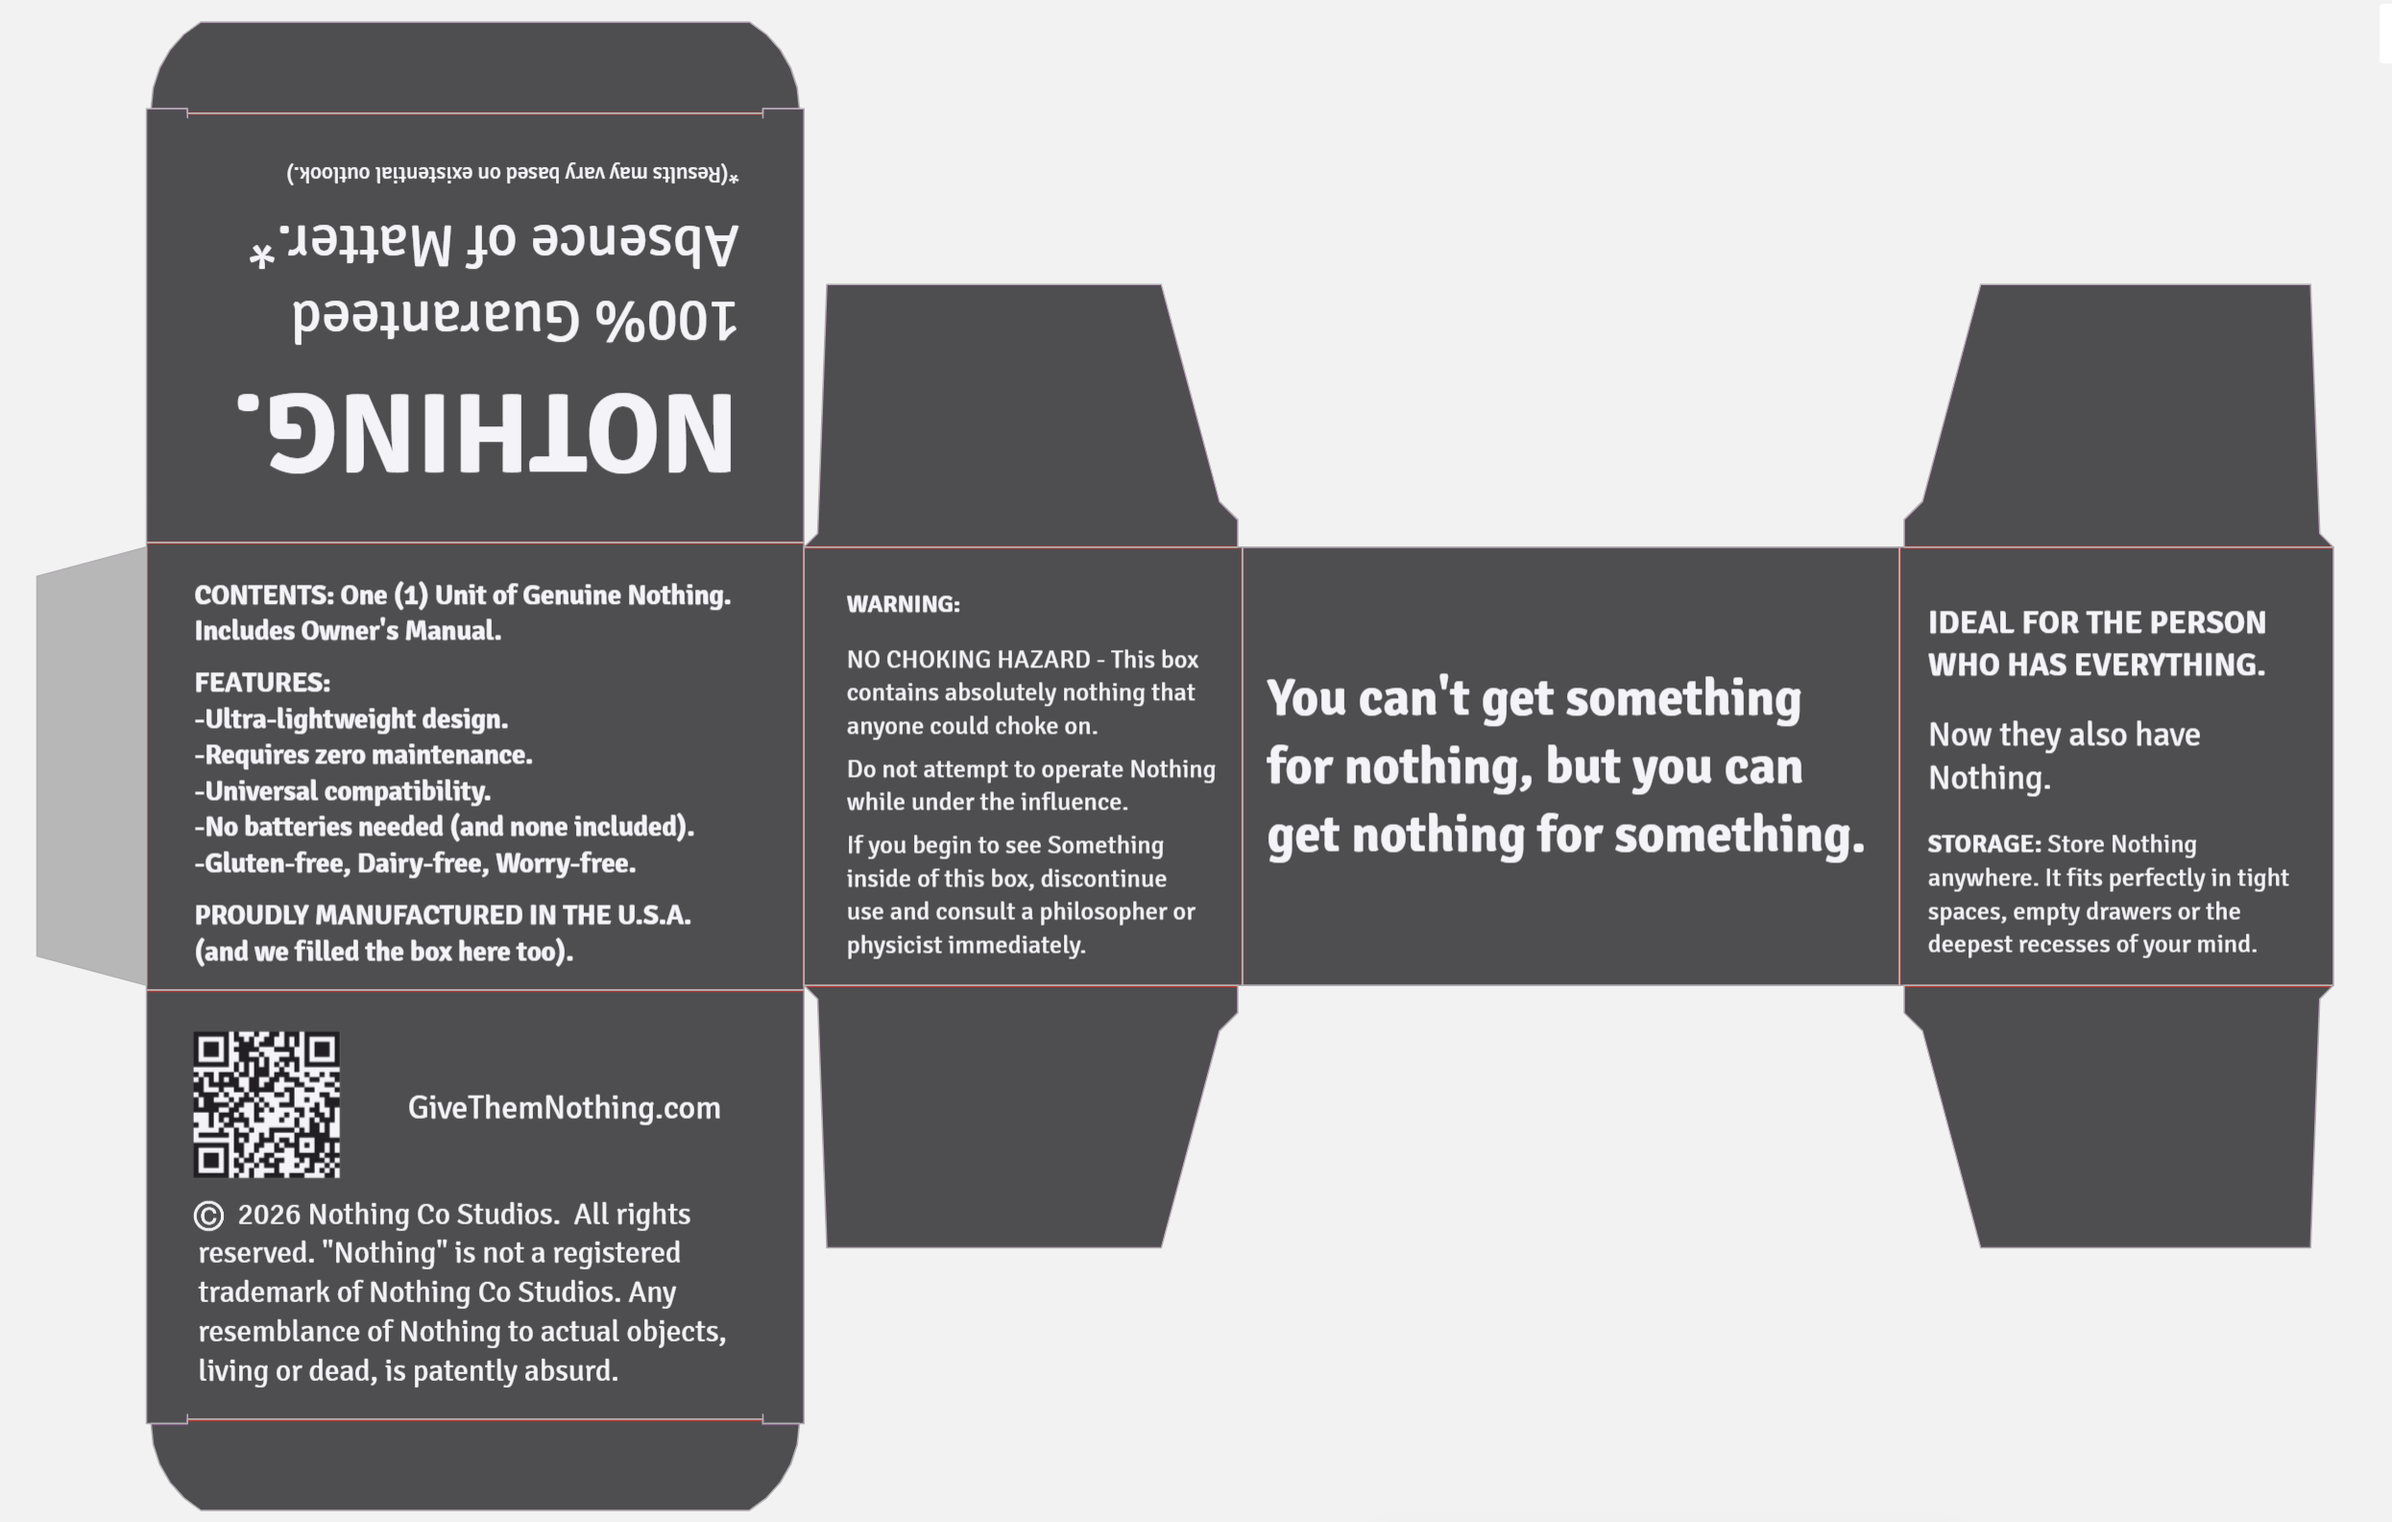
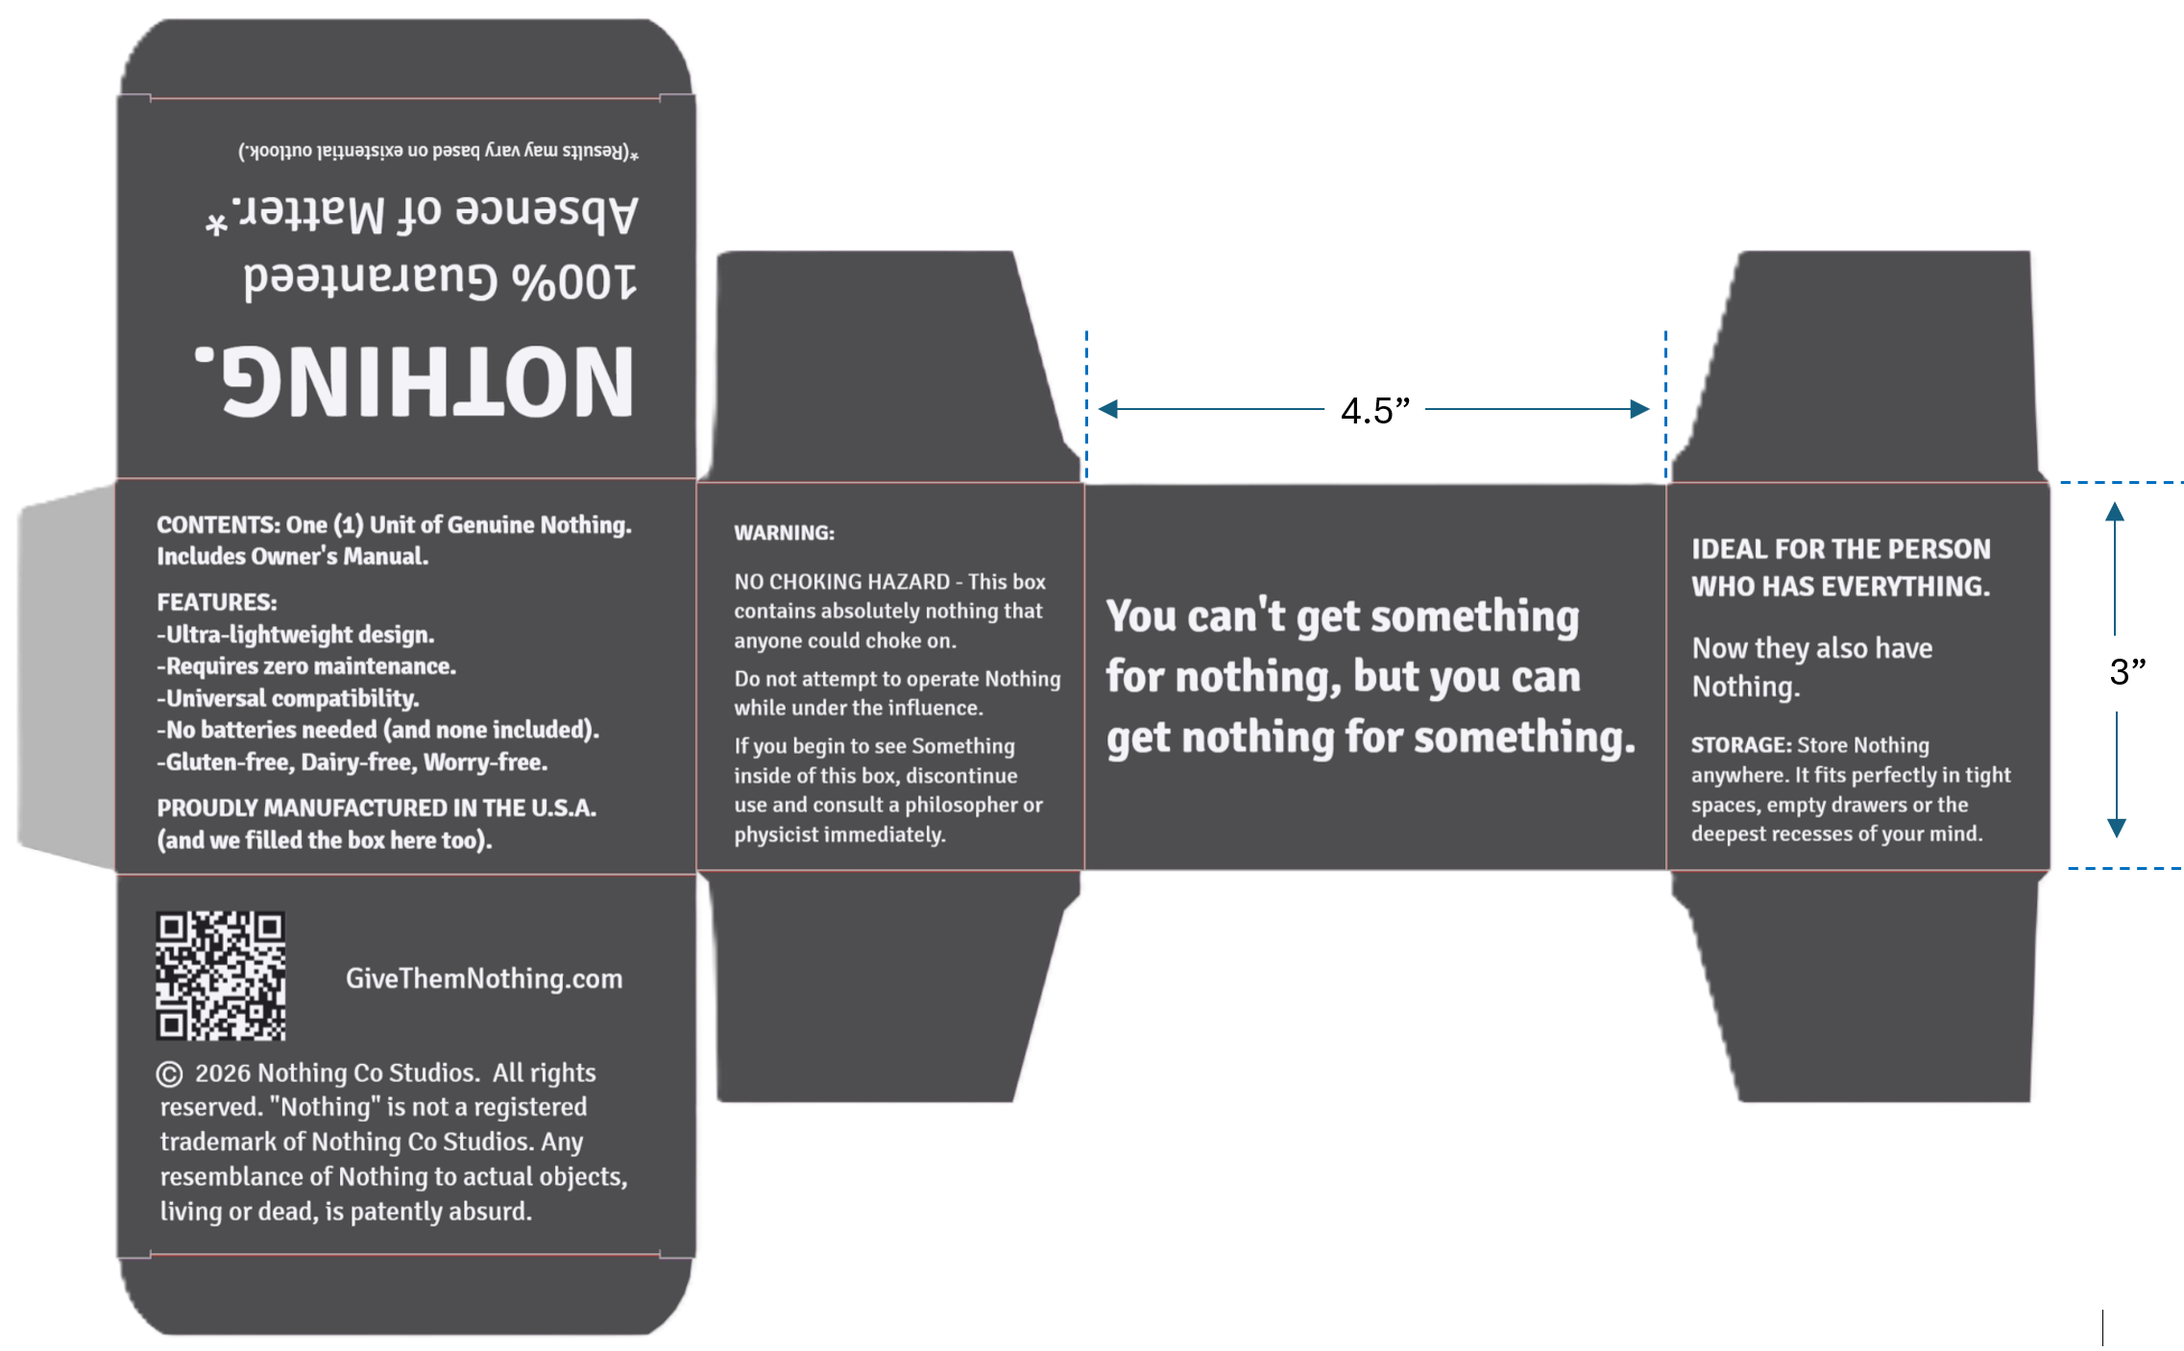
updates

Changed region(s): [[0.0, 0.0, 0.9991, 1.0]]

diff --git a/src/content/copy.ts b/src/content/copy.ts
@@ -75,7 +75,7 @@ export const diy = {
       n: '01',
       title: 'Download and print the Owner\'s Manual.',
       body: [
-        'The one-page, double-sided Owner\'s Manual containing 22 recommended uses for your Nothing. Includes safety warnings and storage instructions.',
+        'The one-page, double-sided Owner\'s Manual containing 22 recommended uses for your Nothing.',
         'Print settings: US Letter or A4, double-sided (flip on long edge), black-and-white, 100% scale (do not "fit to page").',
       ],
       cta: 'Download the Owner\'s Manual (PDF, 60 KB)',
@@ -114,12 +114,12 @@ export const diy = {
         {
           title: 'Print and assemble yourself.',
           body:
-            'Print at 100% scale on cardstock (65 lb / 176 gsm or heavier is recommended). Cut along solid lines, fold along dashed lines, glue or tape the tabs. Charcoal cardstock gives the best result; white works too.',
+            'Print on cardstock (65 lb / 176 gsm or heavier is recommended) at the scale shown on the template (or smaller if you prefer). Cut along the solid lines, fold along the red lines, glue or tape the tabs. Charcoal cardstock gives the best result; white works too.',
         },
         {
-          title: 'Send it to a proper print shop.',
+          title: 'Or send it to a print shop.',
           body:
-            'Upload the layout to a custom-box service like Packola, PakFactory, or PackMojo as a die-line template. Choose matte charcoal corrugated with white water-based print for the closest match to the original design. Minimum order is usually 25–100 units — worth it if you\'re making them as gifts.',
+            'Upload the layout to a custom-box service like Packola, PakFactory, or PackMojo as a die-line template. Choose matte charcoal corrugated with white water-based print for the closest match to the original design.',
         },
       ],
       cta: 'Download the box layout (PNG, 495 KB)',
@@ -129,7 +129,7 @@ export const diy = {
           {
             src: '/box-layout.png',
             alt: 'The Nothing box die-line layout, printable on cardstock.',
-            caption: 'Print at 100% scale on cardstock. Cut solid lines, fold dashed lines.',
+            caption: 'Print on cardstock. Cut solid lines, fold red lines.',
           },
         ],
       },
